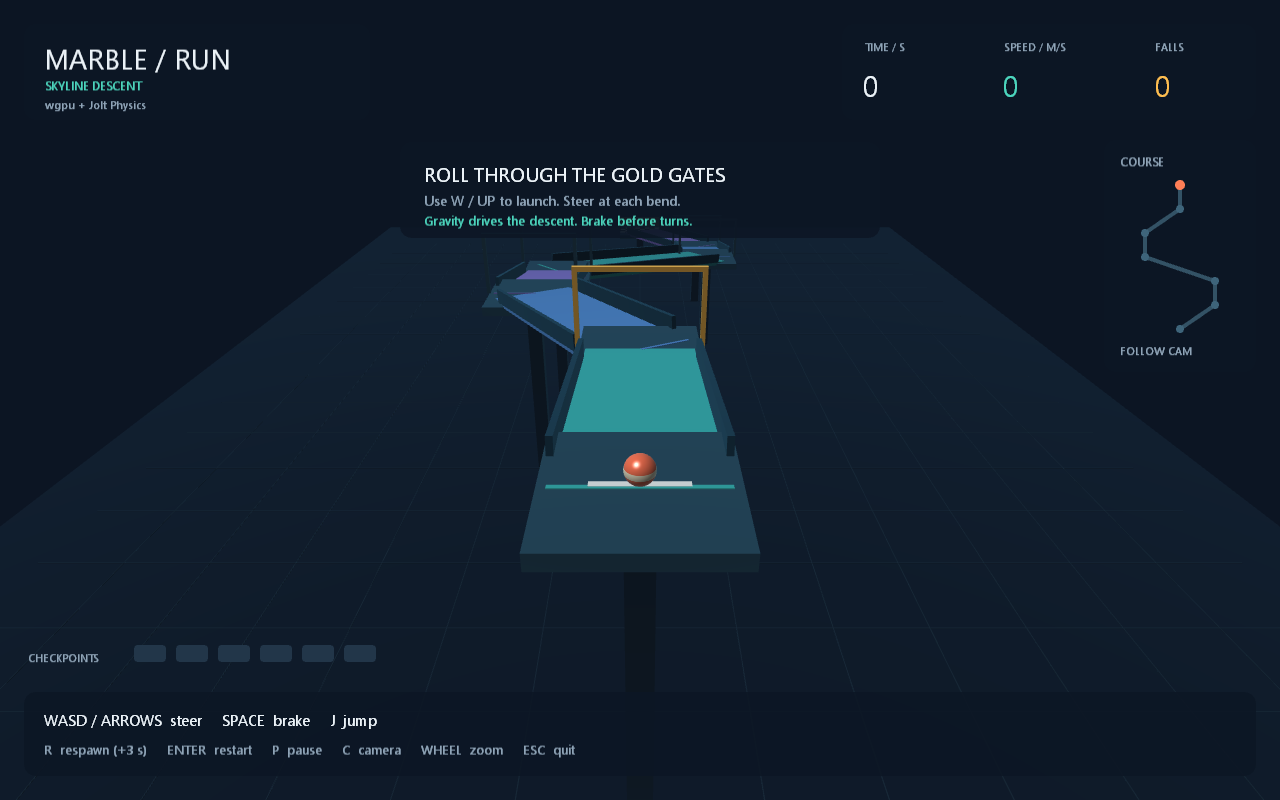
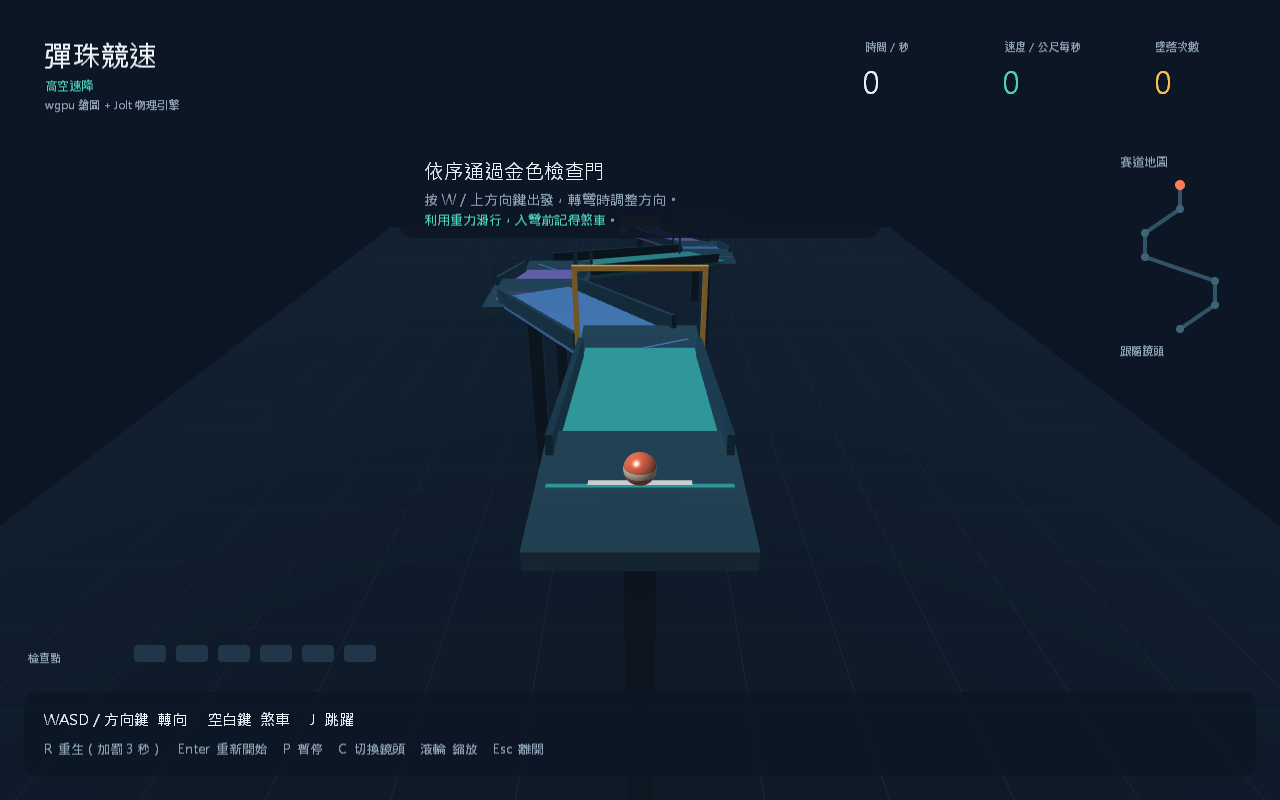
Working marble 3D with Traditional Chinese.

diff --git a/README.md b/README.md
@@ -1,106 +1,75 @@
-# Marble Run — Skyline Descent
+# 彈珠競速－高空速降
 
-A playable 3D time trial written entirely in Aquarius (`.aqua`). Roll a striped
-marble down an elevated, winding course, pass all six gates in order, and beat
-your best time. The gold gate is your next checkpoint; completed gates turn
-green. Falls respawn you at the last checkpoint and add three seconds.
-Finish in 24 seconds for gold or 38 seconds for silver. Best times last for the
-current session.
+完全以 Aquarius（`.aqua`）撰寫的 3D 計時競速遊戲。操控條紋彈珠沿著蜿蜒的高架賽道向下滾動，依序通過六道檢查門，挑戰自己的最佳紀錄。金色檢查門代表下一個檢查點，已通過的檢查門會變成綠色。墜落後會在上一個檢查點重生，並加罰 3 秒。
 
-## Gameplay preview
+在 24 秒內完賽可獲得金牌，38 秒內則可獲得銀牌。最佳紀錄僅保留至本次遊戲關閉。遊戲介面、操作提示與視窗標題皆使用繁體中文。
 
-![Marble Run gameplay showing the striped marble, elevated course, gold checkpoint gate, timer, and minimap](preview.png)
+## 遊戲預覽
 
-Rendering uses **wgpu through Processing P3D**, with a custom WGSL material,
-depth buffering, directional lighting, specular highlights, and distance fog.
-Processing supplies GPU canvas presentation and GLFW window/input integration.
-**Jolt Physics** simulates the marble and the oriented box track, including
-gravity, friction, rolling, rail collisions, and continuous collision detection.
-There are no external art assets or changes to the language runtime.
+![彈珠競速遊戲畫面：條紋彈珠、高架賽道、金色檢查門、計時器與小地圖](preview.png)
 
-## Run
+繪圖透過 **Processing P3D 使用 wgpu**，搭配自訂 WGSL 材質、深度緩衝、方向光、鏡面高光與距離霧效。Processing 負責 GPU 畫布呈現，以及 GLFW 視窗與輸入整合。
 
-Use a prebuilt **`AquariusDesktopVMREPL.exe`** distribution with its bundled
-graphics and physics dependencies, and a desktop with a compatible GPU driver.
-Keep the complete runtime distribution together. From this game's directory,
-run the entry script with the executable:
+**Jolt Physics** 負責模擬彈珠與具有旋轉角度的方塊賽道，包含重力、摩擦、滾動、護欄碰撞及連續碰撞偵測。遊戲不需要外部美術素材，也不需要修改語言執行環境。
+
+## 執行方式
+
+請使用已建置的 **`AquariusDesktopVMREPL.exe`** 發行套件，保留隨附的繪圖與物理相依套件，並確認電腦具有相容的 GPU 驅動程式。遊戲介面使用系統字型 **Microsoft JhengHei（微軟正黑體）**；請使用支援繁體中文字型的 Windows 執行環境。
+
+請將完整執行環境放在同一個目錄中。在遊戲目錄下，以執行檔啟動入口腳本：
 
 ```powershell
-# If the executable is on PATH:
+# 執行檔已加入 PATH 時：
 AquariusDesktopVMREPL.exe .\main.aqua
 
-# Or specify its full path:
+# 或指定執行檔的完整路徑：
 & 'C:\Aquarius\AquariusDesktopVMREPL.exe' .\main.aqua
 ```
 
-Replace the example path with your executable's location. You can also use the
-included launcher, which locates `main.aqua` relative to itself:
+請將範例路徑替換成實際的執行檔位置。腳本匯入路徑以各腳本所在目錄為基準，因此也可以指定 `main.aqua` 的絕對路徑，從其他工作目錄啟動。
 
-```powershell
-.\run.ps1                         # Uses AquariusDesktopVMREPL.exe on PATH
-.\run.ps1 -VmPath 'C:\Aquarius\AquariusDesktopVMREPL.exe'
-```
+## 操作方式
 
-Script imports resolve relative to each script, so an absolute path to
-`main.aqua` also lets you launch from another working directory.
-
-## Controls
-
-| Key | Action |
+| 按鍵 | 功能 |
 | --- | --- |
-| WASD / arrow keys | Steer in world X/Z: W moves down the course, D moves right |
-| Space (hold) | Brake horizontal movement |
-| J | Jump when supported by the track |
-| R | Return to the last checkpoint, adding 3 seconds |
-| Enter | Restart the run; retain the session best |
-| P | Pause / resume physics and the timer |
-| C | Switch follow / overview camera |
-| Mouse wheel | Adjust follow camera distance |
-| Esc / close window | Quit |
+| WASD／方向鍵 | 沿世界座標的 X／Z 軸轉向：W 朝賽道下坡方向移動，D 向右移動 |
+| 空白鍵（按住） | 減緩水平移動速度 |
+| J | 彈珠位於賽道上時跳躍 |
+| R | 回到上一個檢查點，並加罰 3 秒 |
+| Enter | 重新開始，保留本次遊戲的最佳紀錄 |
+| P | 暫停／繼續物理模擬與計時 |
+| C | 切換跟隨／俯瞰鏡頭 |
+| 滑鼠滾輪 | 調整跟隨鏡頭距離 |
+| Esc／關閉視窗 | 離開遊戲 |
 
-Press W to start the timer and launch. Gravity supplies most of the downhill
-speed; brake before the unrailed bends and steer toward the highlighted gate.
-The overview camera and minimap show the whole route. Steering directions remain
-world aligned in both camera modes. The camera and HUD respond to window resizing
-and display pixel density.
+按 W 或上方向鍵出發並開始計時。下坡速度主要來自重力；進入沒有護欄的彎道前先煞車，並朝醒目的金色檢查門前進。俯瞰鏡頭與小地圖可查看完整路線。兩種鏡頭模式的轉向方向都以世界座標為準。鏡頭與遊戲介面會隨視窗大小及顯示器像素密度調整。
 
-## Scripts
+## 腳本說明
 
-| Script | Responsibility |
+| 腳本 | 職責 |
 | --- | --- |
-| `main.aqua` | Composition, sketch lifecycle, clock, and event wiring |
-| `config.aqua` | Course nodes, dimensions, physics tuning, and medal targets |
-| `math3d.aqua` | Vector math and matching quaternion/matrix transforms |
-| `track.aqua` | Shared floor, rail, support, and checkpoint definitions |
-| `physics.aqua` | Jolt ownership, fixed updates, controls, respawns, and scoring |
-| `input.aqua` | Held-key input and normalized diagonal steering |
-| `camera.aqua` | Smoothed follow view, overview, and zoom |
-| `shaders.aqua` | WGSL vertex and fragment programs |
-| `renderer.aqua` | GPU canvas, track geometry, checkpoints, and rolling marble |
-| `hud.aqua` | Timer, progress, minimap, controls, pause, and result panels |
+| `main.aqua` | 模組整合、繪圖生命週期、時鐘與事件連接 |
+| `config.aqua` | 賽道節點、尺寸、物理參數與獎牌目標時間 |
+| `math3d.aqua` | 向量運算，以及對應的四元數與矩陣轉換 |
+| `track.aqua` | 共用的地板、護欄、支柱與檢查點定義 |
+| `physics.aqua` | Jolt 資源管理、固定時間更新、操控、重生與成績計算 |
+| `input.aqua` | 持續按鍵輸入與斜向轉向的正規化 |
+| `camera.aqua` | 平滑跟隨視角、俯瞰視角與縮放 |
+| `shaders.aqua` | WGSL 頂點與片段著色器 |
+| `renderer.aqua` | GPU 畫布、賽道幾何、檢查點與滾動彈珠 |
+| `hud.aqua` | 計時、進度、小地圖、操作提示、暫停與結果面板 |
 
-Project-defined variables, function bindings, parameters, and shader variables
-use Traditional Chinese names. External runtime APIs and shader entry points
-retain the names required by Processing, Jolt, and WebGPU.
+專案自訂的變數、函式繫結、參數與著色器變數皆使用繁體中文名稱。外部執行環境 API 與著色器入口則保留 Processing、Jolt 及 WebGPU 所要求的名稱。
 
-Modify `config.aqua` to change the route or movement. Adjacent nodes create
-oriented ramps; broad landing pads bridge the corners. Collider and render
-geometry share positions, dimensions, and rotations. Arches, checker tiles, and
-the scenery grid are decorative. The ground under the elevated track is visual;
-falling below the recovery height triggers a respawn.
+修改 `config.aqua` 即可調整路線或移動參數。相鄰節點會建立具有旋轉角度的斜坡，寬大的平台則銜接各個轉角。碰撞體與繪圖幾何共用位置、尺寸及旋轉資料。拱門、棋盤格地磚與背景網格皆為裝飾。高架賽道下方的地面僅供顯示；彈珠落至回復高度以下時，就會觸發重生。
 
-Physics uses an accumulator at **120 Hz**, with position interpolation for
-rendering. Frame deltas are capped at 0.1 seconds / 12 updates to avoid catching
-up indefinitely after a long stall. The timer counts simulated time and respawn
-penalties. Braking applies drag; jump eligibility uses the oriented floor bounds,
-while Jolt owns all contact response. The finish freezes the completed run.
-Jolt is disposed on normal exit; the desktop host also releases native resources
-if a script or callback fails. Processing releases its window and GPU resources.
+物理模擬透過時間累加器以 **120 Hz** 更新，繪圖時則使用位置插值。每個畫格的時間差上限為 0.1 秒，最多執行 12 次更新，避免長時間停頓後無限追趕進度。計時器累計模擬時間與重生罰時。煞車透過阻力減速；是否能跳躍由旋轉後的地板範圍判定，所有碰撞反應則由 Jolt 處理。抵達終點後，該次挑戰即停止更新。
 
-## Compile a portable script bottle
+正常離開時會釋放 Jolt 資源；若腳本或回呼發生錯誤，桌面執行環境也會釋放原生資源。Processing 會釋放視窗與 GPU 資源。
 
-Package **every** script, with `main.aqua` first. From this game's directory,
-using the same prebuilt executable:
+## 編譯成可攜式腳本瓶（bottle）
+
+請打包**所有**腳本，並將 `main.aqua` 放在第一個。在遊戲目錄下，使用相同的預先建置執行檔：
 
 ```powershell
 $彈珠執行器 = 'C:\Aquarius\AquariusDesktopVMREPL.exe'
@@ -114,9 +83,8 @@ $彈珠腳本列表 = @('.\main.aqua') + @(
 & $彈珠執行器 .\marble_run.bottle
 ```
 
-The bottle includes the WGSL strings and needs no art files. Distribute it with
-the complete desktop VM and its native dependencies.
+腳本瓶包含 WGSL 字串，不需要美術素材檔案。發佈時，請一併提供完整的桌面 VM 與原生相依套件。
 
-## License
+## 授權
 
-This project is licensed under the [MIT License](LICENSE).
+本專案採用 [MIT 授權條款](LICENSE)。
